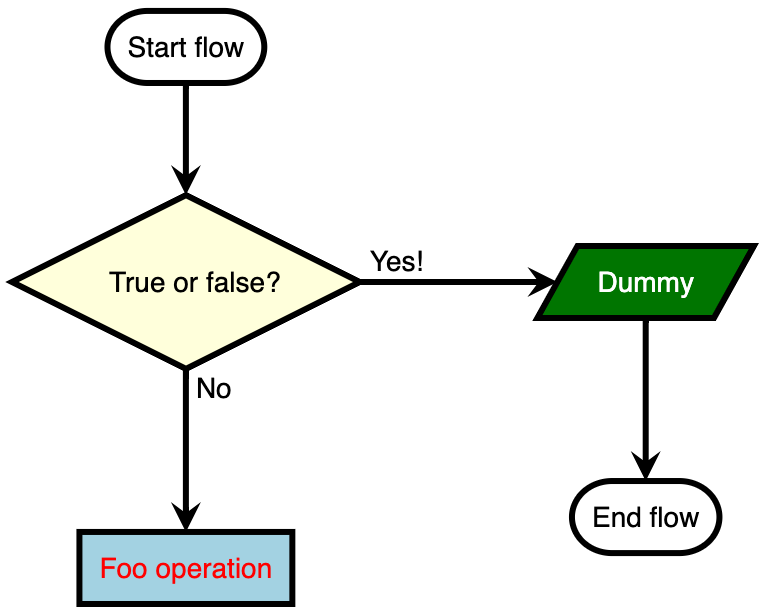
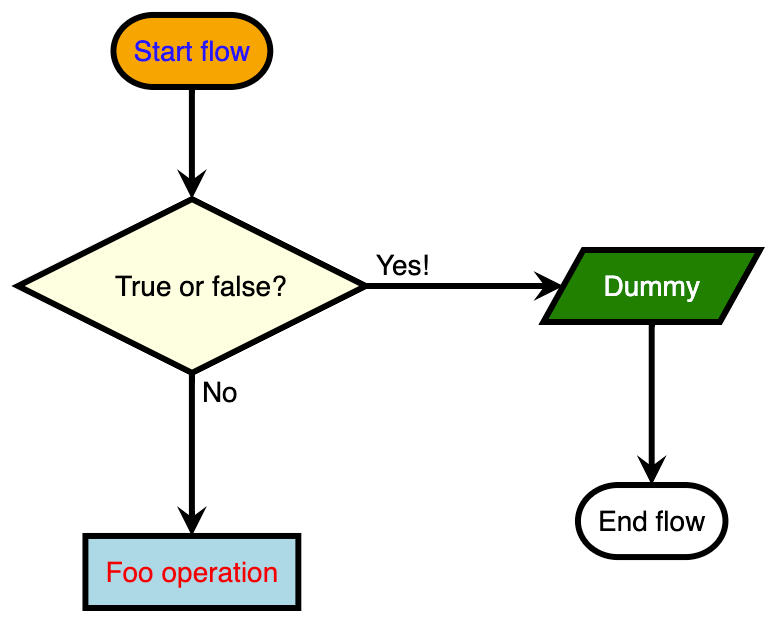
Updated README

diff --git a/README.md b/README.md
@@ -28,4 +28,158 @@ npm install --save react-flowchart.js
 
 ## Usage
 
-Coming soon...
+Please see code below:
+
+```jsx
+import React from 'react';
+import { Flowchart, FlowchartConfig, Node } from 'react-flowchart.js';
+
+const App = () => {
+  // Nodes (required) - this is our list of nodes to display in the flowchart.
+  // The properties "type", "id" and "label" are required. Connections are optional.
+  // Note that the structure of connections vary based on the node type (eg. "condition" allows both "yes" and "no" connections).
+  // Please see the flowchart.js README for documentation on this: https://github.com/adrai/flowchart.js#node-specific-specifiers-by-type
+  const nodes: Node[] = [
+    {
+      type: 'start',
+      id: 'my_start_node',
+      label: 'Start flow',
+      state: 'highlighted', // Support for flowstate (allows you to modify the styling of a node based on this value)
+      connection: {
+        id: 'my_condition_node',
+        position: 'bottom',
+      },
+    },
+    {
+      type: 'condition',
+      id: 'my_condition_node',
+      label: 'True or false?',
+      connections: {
+        yes: {
+          id: 'dummy_node',
+          position: 'right',
+        },
+        no: {
+          id: 'my_operation_node',
+          position: 'bottom',
+        },
+      },
+    },
+    {
+      type: 'operation',
+      id: 'my_operation_node',
+      label: 'Foo operation',
+    },
+    {
+      type: 'inputoutput',
+      id: 'dummy_node',
+      label: 'Dummy',
+      connection: {
+        id: 'end',
+        position: 'bottom',
+      },
+    },
+    {
+      type: 'end',
+      id: 'end',
+      label: 'End flow',
+    },
+  ];
+
+  // Config (optional) - here we configure the flowchart, eg. line width, font family, arrow type, yes and no texts, etc.
+  const config: FlowchartConfig = {
+    lineWidth: 3,
+    yesText: 'Yes!',
+    noText: 'No',
+  };
+
+  // Styles (optional) - here we define the base styling for our nodes based on the node type (the "type" property)
+  const styles = {
+    condition: {
+      fill: 'lightyellow',
+    },
+    operation: {
+      fill: 'lightblue',
+      'font-color': 'red',
+    },
+    inputoutput: {
+      fill: 'green',
+      'font-color': 'white',
+    },
+  };
+
+  // States (optional) - here we define styling for the flowstate defined on nodes (the "state" property)
+  const states = {
+    highlighted: {
+      fill: 'orange',
+      'font-color': 'blue',
+    },
+  };
+
+  // OnClick (optional) - here we define a callback for when clicking a node
+  const onClick = (item: any, mouseEvent: MouseEvent) => {
+    console.log('Item clicked:', item);
+    console.log('Mouse event:', mouseEvent);
+  };
+
+  return (
+    <div>
+      <h1>Flowchart example</h1>
+      <Flowchart
+        nodes={nodes}
+        config={config}
+        styles={styles}
+        states={states}
+        onClick={onClick}
+      />
+    </div>
+  );
+};
+```
+
+## Props
+
+```typescript
+interface FlowchartProps {
+  nodes: Node[]; // required
+  config?: FlowchartConfig;
+  styles?: {
+    [nodeType: string]: Object;
+  };
+  states?: {
+    [state: string]: Object;
+  };
+  onClick?: (item: any, mouseEvent: MouseEvent) => void;
+}
+
+interface FlowchartConfig {
+  lineWidth?: number; // default: 2
+  lineLength?: number; // default: 50
+  textMargin?: number; // default: 10
+  fontSize?: number; // default: 14
+  fontFamily?: string; // default: Helvetica
+  fontWeight?: string; // default: normal
+  fontColor?: string; // default: black
+  lineColor?: string; // default: black
+  elementColor?: string; // default: black
+  fill?: string; // default: white
+  yesText?: string; // default: yes
+  noText?: string; // default: no
+  arrowEnd?: 'block' | 'classic-wide-long'; // default: classic-wide-long
+  scale?: number; // default: 1
+}
+```
+
+## Documentation
+
+For documentation on how flowchart.js works please check out the [README of flowchart.js](https://github.com/adrai/flowchart.js).
+
+## Contributions
+
+Contributions are most welcome!
+
+## Thanks
+
+Thanks to Adriano Raiano for creating [flowchart.js](https://github.com/adrai/flowchart.js).
+
+##
